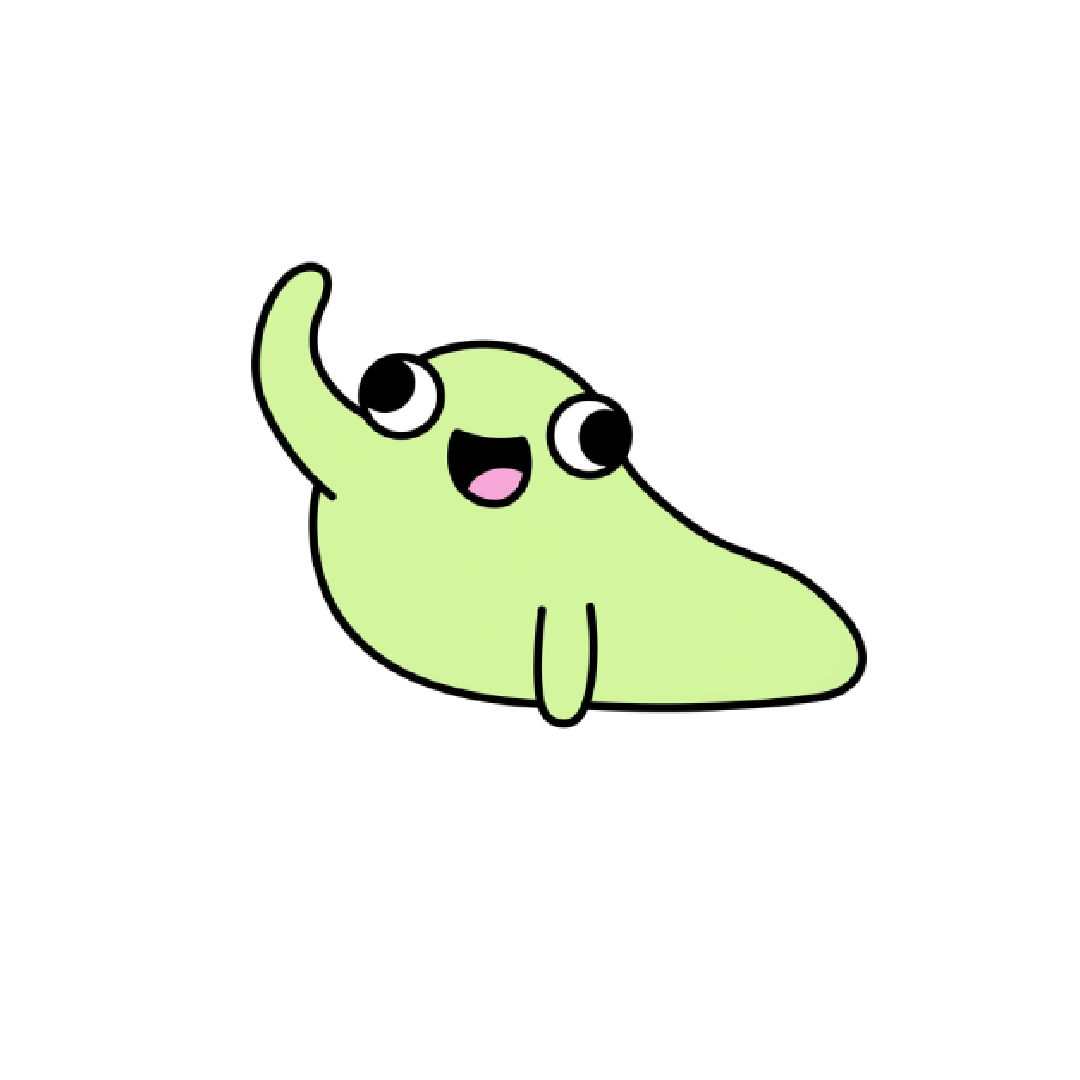
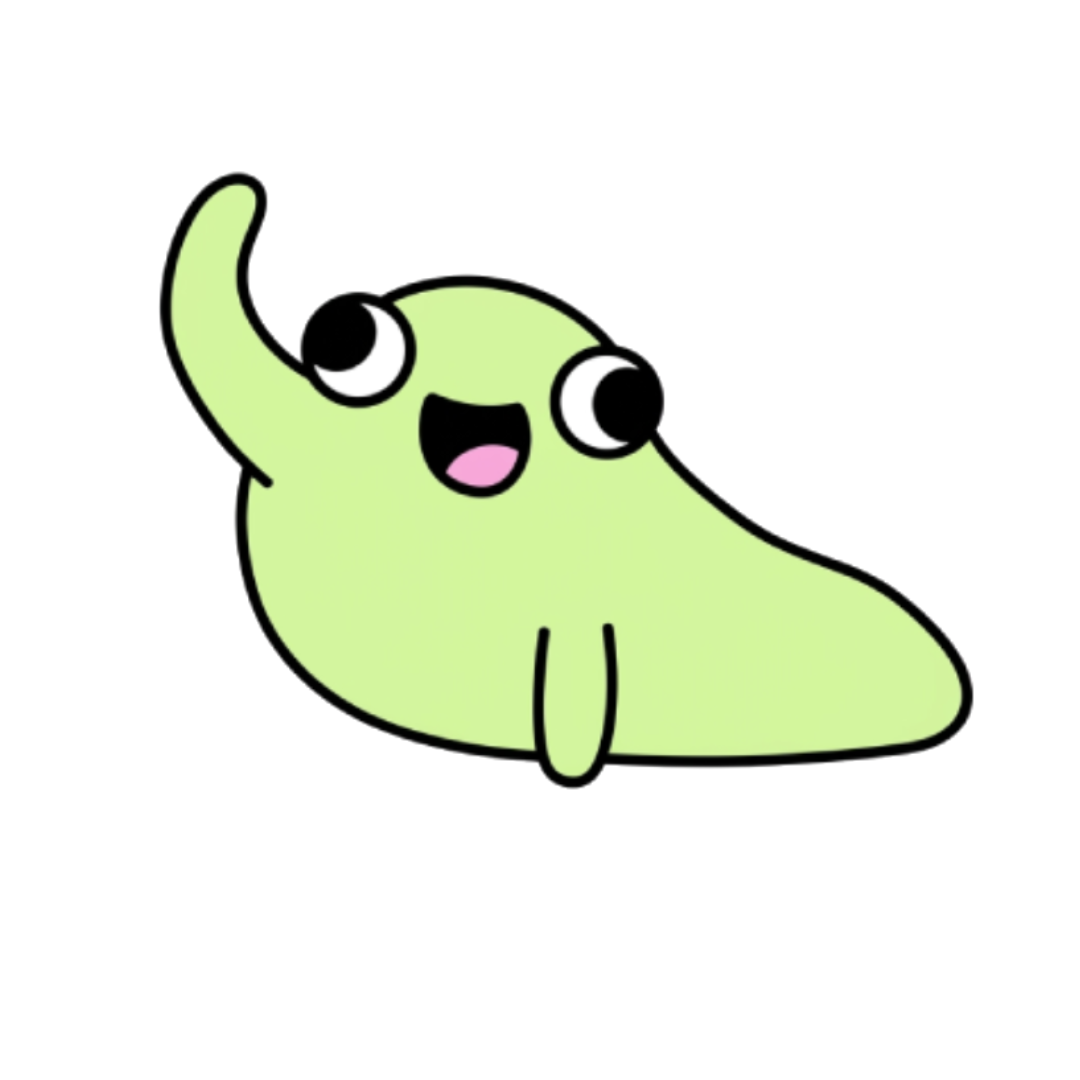
Adding Tully images and fixing splash.

Changed region(s): [[0.1222, 0.1528, 0.9167, 0.7333]]

diff --git a/src/session/ui/launch-veil.tsx b/src/session/ui/launch-veil.tsx
@@ -79,11 +79,13 @@ const BACKGROUND = "#EDE6D6";
  * be the same number: this view is a copy of the native splash and the handoff
  * between them is only invisible while both draw the mark at one size.
  *
- * It came down from 260. Tully at that width filled a third of a phone and read
- * as a character being introduced; the splash is a held breath before the app,
- * not a title card.
+ * It came down from 260 to 180 — Tully at that width filled a third of a phone
+ * and read as a character being introduced, where the splash is a held breath
+ * before the app rather than a title card — and back up to 220, which is the
+ * middle of that argument: large enough to be a wave rather than a logo, still
+ * short of owning the screen.
  */
-const MARK_SIZE = 180;
+const MARK_SIZE = 220;
 
 export function LaunchVeil() {
   const [cleared, setCleared] = useState(false);
